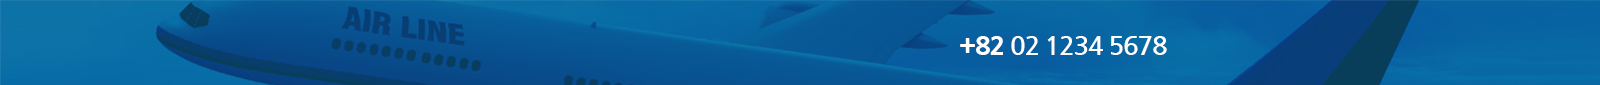
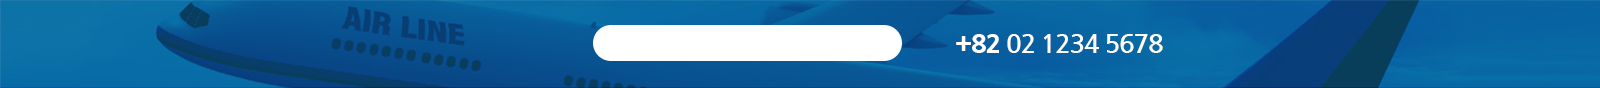
11

diff --git a/html/webpage.html b/html/webpage.html
@@ -1,0 +1,43 @@
+<!DOCTYPE html>
+<html lang="ko">
+<head>
+	<meta http-equiv="X-UA-Compatible" content="IE=Edge">
+	<meta charset="UTF-8">
+	<title>문서 제목</title>
+
+	<link rel="stylesheet" href="../css/reset.css">	
+	<link rel="stylesheet" href="../css/webpage.css">
+	<link rel="stylesheet" href="../css/jquery.bxslider.css">
+	<script src="../js/jquery.js"></script>
+	<script src="../js/jquery.bxslider.js"></script>
+
+</head>
+<body>
+	<header id="header_wrap">
+		<section class="header">
+			<img src="../images-h/title.png" alt="title">
+			<div class="htext">
+				<p><span>SEARCH</span>검색어를 입력하세요.</p>
+			</div>
+			<div class="sns">
+				<a href="https://ko-kr.facebook.com/"><img src="../images-h/fb.png" alt=""></a>
+				<a href="https://twitter.com/?lang=ko"><img src="../images-h/tw.png" alt=""></a>
+				<a href="https://www.google.cokr"><img src="../images-h/bind.png" alt=""></a>
+				<a href="https://www.youtube.com/"><img src="../images-h/in.png" alt=""></a>
+			</div>
+		</section>
+		<div class="gnb_wrap">
+			<ul>
+				<li>여행도시</li>
+				<li>호텔예약</li>
+				<li>렌트카</li>
+				<li class="new">여행TIP</li>
+				<li>회사소개</li>
+				<li>커뮤니티</li>
+			</ul>
+		</div>
+	</header>
+
+
+</body>
+</html>

diff --git a/css/webpage.css b/css/webpage.css
@@ -1,0 +1,10 @@
+@charset "uff-8";
+
+#header_wrap{height: 88px;width: 100%;background: #076fa6;}
+.header{background: url(../images-h/air.png) no-repeat;margin: 0 auto;width: 1600px;
+position: relative;}
+.header img{position: absolute;left: 100px;}
+.htext{position: absolute;left: 300px;}
+.htext p{font-size: 13px;color: #6c6d6e;}
+.htext span{font-size: 14px;color: #152630;font-weight: bold;}
+.sns{}
